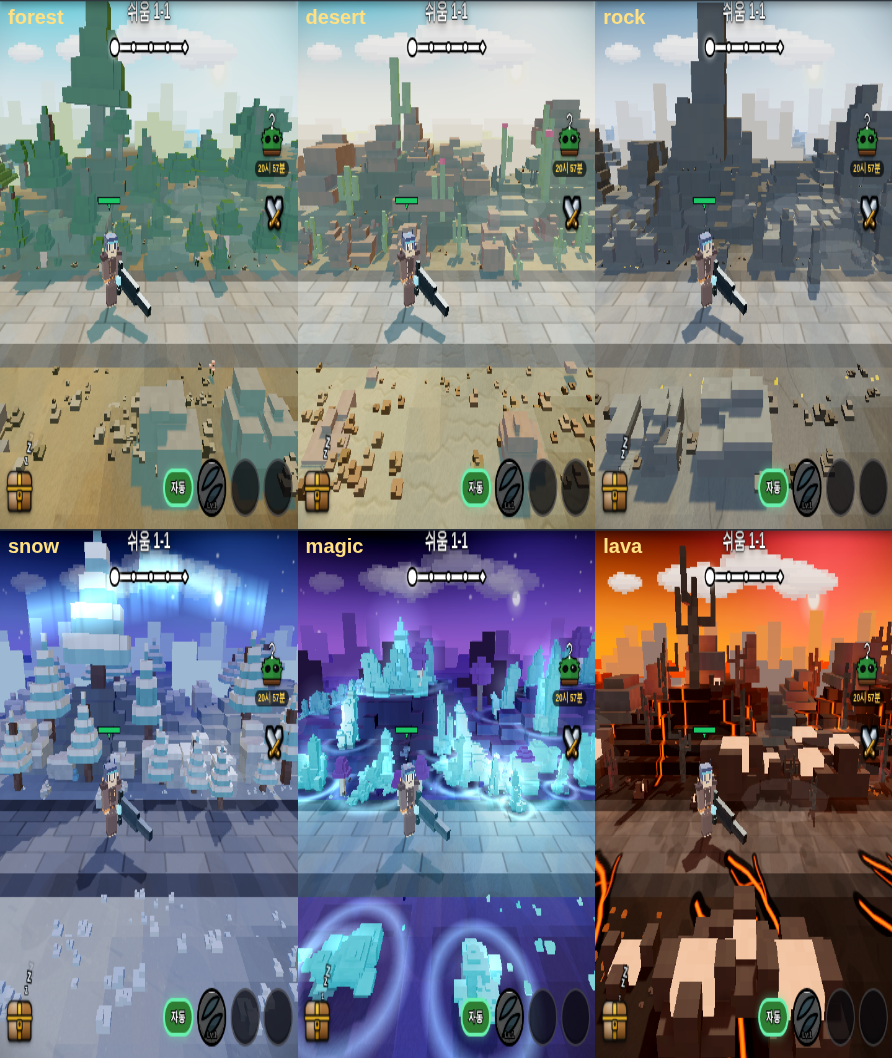
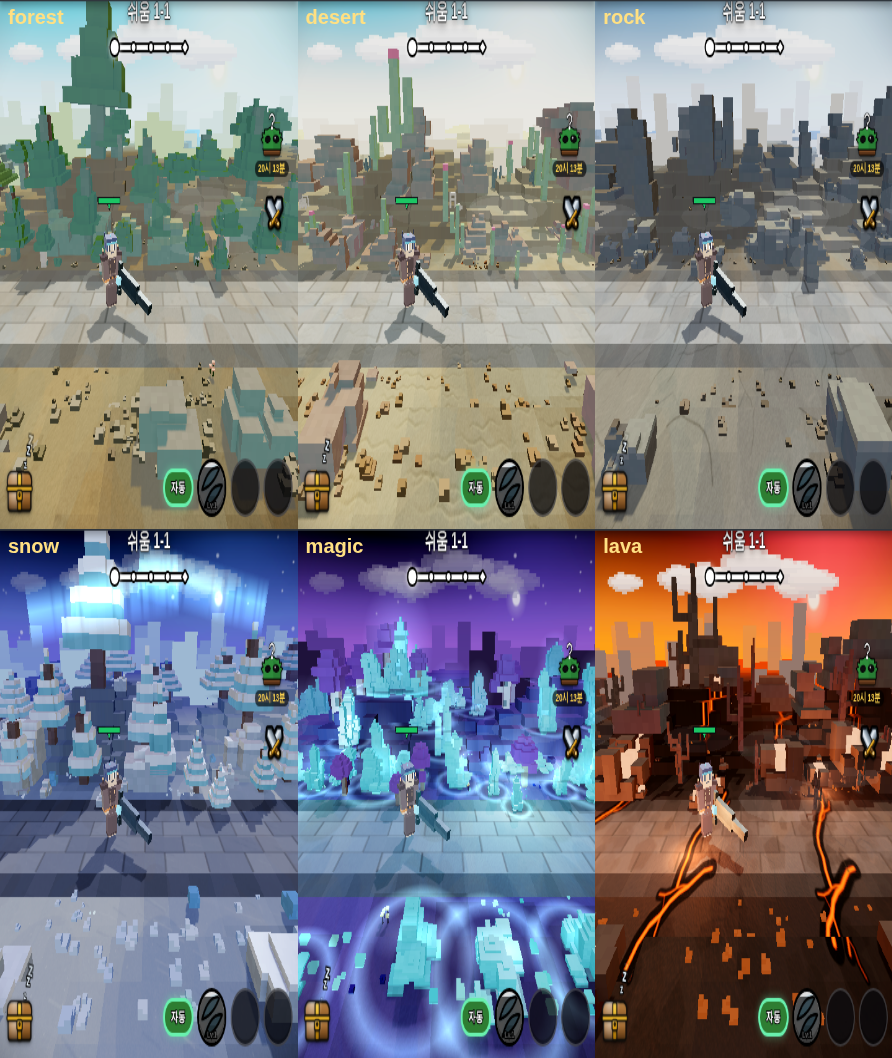
노면 위 그림자의 청록 웅덩이 제거 — 지면 암부 틴트만 혼합에서 분리
밝은 무채 노면(직전 커밋)이 드러낸 결함이다: 영웅·적·나무 그림자가 회색 포석 위에서
**청록 웅덩이로 고였다**(ch1 노면 그림자 B−R +21.7 실측). 도로를 깔끔하게 만든 목적을
정면으로 깎아먹는다.

⚠ **후보였던 한 줄 교체(`.lerp(gC,0.40)` → `.lerp(soilC,0.40)`)는 계산으로 기각했다.**
   혼합의 60%가 여전히 하늘이라 갈색 흙(89,69,42)을 섞으면 결과가 (117,151,158) =
   **B 가 최대인 슬레이트 블루**가 된다. 초록 gC 를 섞을 때(#3b756e)보다 노면이 **더**
   파래지고, 40% 혼합 주석이 경고한 캐노피 슬레이트까지 같이 터진다.

그래서 혼합식을 고치지 않고 **지면(terrainMat) 암부 틴트만 떼어 냈다.** 잎·줄기·돌·덤불·
복셀 프롭은 종전 혼합 틴트를 한 화소도 안 건드린다 — `terrainMat` 은 파일 전체에서 메시
하나(`this.ground`)만 쓰므로 **지면 밖 화소 불변이 실측이 아니라 구조로 보증된다.**
명도식(`lift`)은 종전 그대로 물려 밤/낮 사다리를 유지하고, 색만 흙 색상 + 채도 상한 0.12.

실측(드리운 그림자 화소만 차분 추출, 청록 판정 = B−R):
 · ch1 노면 (105.8,131.4,127.5) → (128.9,128.2,121.3)  B−R **+21.7 → −7.6**
 · ch1 흙   (90.6,116.3,107.8)  → (109.8,120.8,108.1)  B−R **+17.2 → −1.7**
 · ch11 늪지 −11.1 → −8.5 · ch12 대나무 −28.6 → −21.9 · ch9 용암 −39.7 → −32.7
 · ch5 밤숲·ch6 설원은 틴트가 #000000 이라 불변. ch6 의 B−R +37.8 은 **눈 지면색+달빛**이지
   틴트가 아니다 — 눈 그늘이 푸른 건 오독이 아니라 정답이라 그대로 뒀다.
 · 25챕터 전수 지면 틴트 B−R 이 전부 ≤0 근처. 남은 예외는 ch18 빙하 +22(옅은 얼음 그늘,
   의도)·ch14 +4·ch22 +3. 종전: ch1 +52 · ch2 +43 · ch14 +59 · ch18 +113.
 · 노면 **수광부**는 (179.6,176.4,164.5) → (179.3,176.1,164.1) 불변 — 대비 25.3% 안 깎았다.

⚠ 절충: 지면 틴트 채도 상한 0.12 때문에 난색 챕터 암부의 유채가 옅어진다
   (`probe-map-palette` colorful% ch13 90.1→79.3, ch15 93.6→90.3). 게이트(offPal)가 아니고
   ch13 풀프레임 육안 A/B 로 챕터 정체성 손상이 없음을 확인했다. 요구가 "중성 회색~약한
   난색"이라 이쪽을 택했다.
⚠ ch1 **캐노피** 자체는 여전히 약간 청록(B−R +22)이다. 안 건드렸다 — 40% 혼합은 직전
   작업자가 실측으로 잡은 값이라 목표가 아니라 제약으로 다뤘다. 손대면 잎·능선·덤불이
[…]

diff --git a/web/js/scene3d.js b/web/js/scene3d.js
@@ -17146,13 +17146,33 @@ const Scene3D = {
         //    끌어내려 암부가 도로 뭉개진다(실측: ch22 crush 0.18% → 3.71%, ch9 0.98% → 2.33%).
         //    색상·채도만 혼합에서 취하면 리프트 세기는 종전과 같고 캐스트만 팔레트 안으로 든다.
         // 밤에는 더 눌러 '흐린 낮'처럼 뜨는 것을 막는다.
+        // 🛣 **지면(terrainMat) 암부만 위 혼합에서 떼어 낸다** (road-shadow-teal, 사용자 지적 2026-08-21
+        //    *"밝아진 무채 노면 위 그림자가 청록 웅덩이로 뜬다"*). 도로를 무채 회석재로 올린 뒤
+        //    (road-readability) 노면 albedo 에 색이 거의 없어서, 암부에 **더해지는** 유채 리프트가
+        //    그대로 색으로 읽힌다 — ch1 실측 노면 그림자 rgb(105.8,131.4,127.5) · B−R **+21.7**
+        //    (같은 노면의 수광부는 B−R −15.1 난색이다). 잎 위에서는 알베도 자체가 초록이라 같은
+        //    틴트가 안 보이던 것이 노면에서만 드러난 것.
+        // 🚨 **후보였던 `.lerp(soilC, 0.40)` 한 줄은 오히려 더 파래진다 — 계산으로 기각했다.**
+        //    혼합의 60% 는 여전히 하늘이라 갈색 흙(89,69,42)을 섞으면 (117,151,158) 즉 **B 가 최대인
+        //    슬레이트 블루**가 된다(초록 gC 를 섞을 때보다 B−R 이 커진다). 노면도 안 고쳐지고 위
+        //    주석이 경고한 '캐노피 슬레이트'까지 같이 터진다.
+        // → 그래서 **혼합을 고치지 않고 지면만 분리**한다. 잎·줄기·돌·덤불은 위 혼합 그대로 —
+        //   40% 혼합의 존재 이유(캐노피 청록 방지)를 한 화소도 건드리지 않는다(실측으로 동일 확인).
+        //   지면 틴트는 하늘을 버리고 **흙색(soilC) 색상만** 쓴다: 챕터 팔레트 안에 머물되(규약)
+        //   채도를 반으로 눌러 상한 0.12 → '중성 회색~약한 난색 암부'. 설원·빙하처럼 지면이 한색인
+        //   챕터는 자연히 옅은 한색 암부로 남는다(눈 그늘이 난색이면 그게 오히려 오독이다).
+        //   🚨 명도는 **위와 같은 식**(하늘 L − 0.38/0.46)을 그대로 쓴다 — 리프트 세기를 건드리면
+        //      위 🚨 의 crush 게이트가 그대로 움직인다.
         {
             const skyHSL = new THREE.Color(t.sky).getHSL({ h: 0, s: 0, l: 0 });
             const mixHSL = new THREE.Color(t.sky).lerp(gC, 0.40).getHSL({ h: 0, s: 0, l: 0 });
-            const st = new THREE.Color().setHSL(mixHSL.h, U.clamp(mixHSL.s + 0.10, 0, 1),
-                Math.max(0, skyHSL.l + (night ? -0.46 : -0.38)));
+            const lift = Math.max(0, skyHSL.l + (night ? -0.46 : -0.38));
+            const st = new THREE.Color().setHSL(mixHSL.h, U.clamp(mixHSL.s + 0.10, 0, 1), lift);
+            const soHSL = soilC.getHSL({ h: 0, s: 0, l: 0 });
+            const stG = new THREE.Color().setHSL(soHSL.h, Math.min(soHSL.s * 0.5, 0.12), lift);
+            const gu = this.terrainMat.userData.__shadeU;   // applyShadeLift 가 재질에 물려 둔 유니폼
             for (const u of this._shadeUniforms) {
-                u.uShadeTint.value.copy(st);
+                u.uShadeTint.value.copy(u === gu ? stG : st);
                 u.uShadeStr.value = this.SHADE.strength * (night ? 0.7 : 1);
             }
         }
